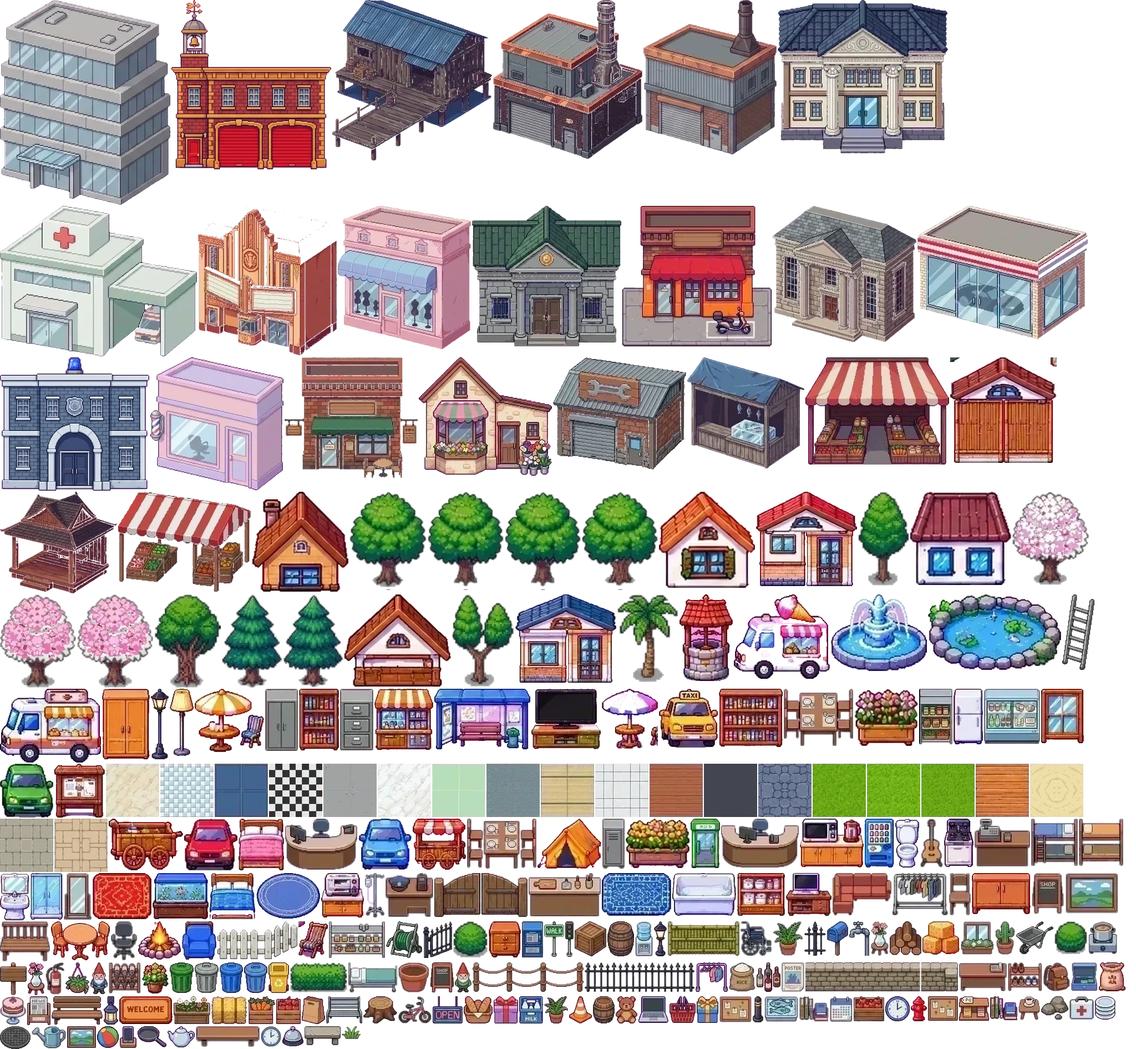
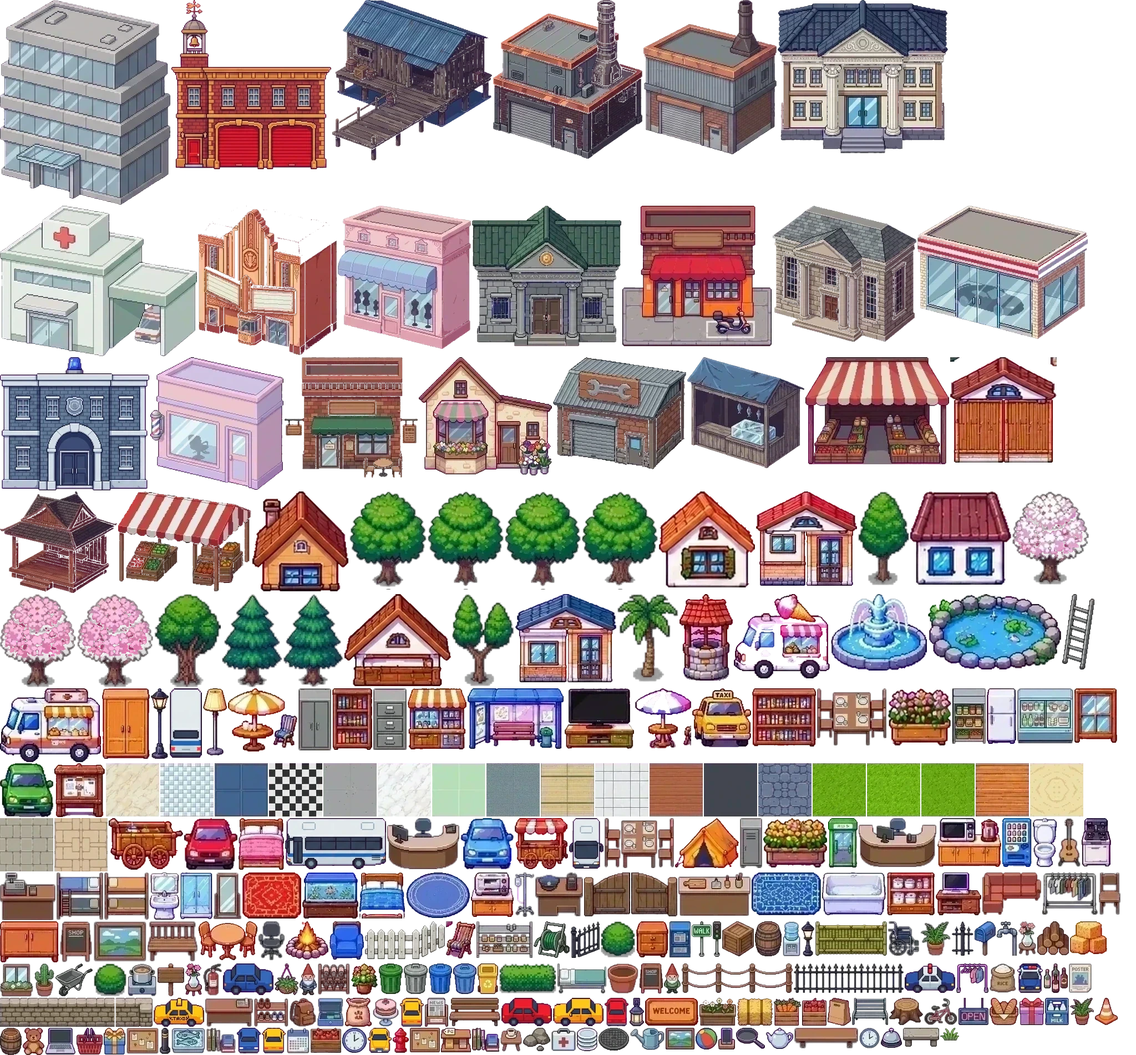
Real traffic from the vehicles sheet: cars, taxis, a police car and buses drive on the left along routes around town, turn at corners with side, front and rear views, keep their distance, take turns at junctions (no overlaps in a 10-minute simulation) and stop for people; parked car props removed; t
Claude-Session: https://claude.ai/code/session_011vTRLcvJmqJKhBboYRSi88

diff --git a/public/game.js b/public/game.js
@@ -696,7 +696,7 @@ function draw(t) {
   for (const f of roomFurniture) if (vis(f[1], f[2], 4)) ents.push([/rug|welcome|f_mat/.test(f[0]) ? -1e9 : f[2], 3, f]);   // rugs and mats lie on the floor: always under people
   for (const p of P.values()) if (vis(p.rx, p.ry, 3)) ents.push([p.ry + .3, 4, p]);
   for (const n of STAFF) if (vis(n.rx, n.ry, 3)) ents.push([n.ry + .3, 4, n]);
-  if (A?.id === 'town') { stepTraffic(); for (const c of traffic) if (c.y > c.y0 + .3 && c.y < c.y1 - .3 && vis(c.x, c.y, 3)) ents.push([c.y, 5, c]); }   // cars only show on their own stretch of road
+  if (A?.id === 'town') { stepTraffic(); for (const c of traffic) if (vis(c.x, c.y, 4)) ents.push([c.y + halfY(c), 5, c]); }
   if (myRoom?.rk === 'hospital') (wd?.beds || []).forEach((b, i) => { if (b && b[5]) { const s = STN('bed' + i); ents.push([s.y + .3, 4, npcPatient(b, s)]); } });
   ents.sort((a, b) => a[0] - b[0]);
   if (!myRoom) drawCastShadows(ents, X, Y, night);
@@ -705,7 +705,7 @@ function draw(t) {
     else if (k === 1) { if (!e.open || isOpen(e.open)) spr(e.s, e.x, e.y - (e.z || 0), X, Y); }   // z: hung on a wall; open: only while that shop is open
     else if (k === 2) spr(e[2], e[0] + .5, e[1] + 1.05, X, Y);
     else if (k === 3) spr(e[0], e[1], e[2], X, Y);
-    else if (k === 5) spr(e.s, e.x, e.y + .35, X, Y, .78);
+    else if (k === 5) drawCar(e, X, Y);
     else drawPlayer(e, X, Y, t);
   }
   for (const b of G.map.buildings) if (vis(b.x + b.w / 2, b.y + b.h)) drawBuildingSign(b, X, Y);
@@ -1849,7 +1849,7 @@ function drawCastShadows(ents, X, Y, night) {
     if (kind === 0) one(e.sprite, e.x + e.w / 2, e.y + e.h + .02);
     else if (kind === 1 && !e.z) one(e.s, e.x, e.y);
     else if (kind === 2) one(e[2], e[0] + .5, e[1] + 1.05);
-    else if (kind === 5) one(e.s, e.x, e.y + .35, .78);
+    else if (kind === 5) { const [n, sc] = carSprite(e); one(n, e.x, e.y + halfY(e), sc); }
     else if (kind === 4 && e.rx != null) {          // people: a body-shaped blob
       g.setTransform(DPR, 0, -k * DPR, -d * DPR, ((e.rx) * TS + X) * DPR, ((e.ry + .32) * TS + Y) * DPR);
       g.fillStyle = '#000'; g.beginPath(); g.ellipse(0, -TS * .55, TS * .2, TS * .55, 0, 0, 7); g.fill();
@@ -1879,22 +1879,98 @@ function drawSunlight(t, night) {
   v.addColorStop(0, 'rgba(20,10,0,0)'); v.addColorStop(1, `rgba(20,10,0,${.32 * day + .1})`);
   ctx.fillStyle = v; ctx.fillRect(0, 0, VW, VH);
 }
-// ---- ambient traffic: cosmetic cars on the vertical roads (left lane drives down toward you, right lane up); they wait for people in the way
-const LANES = [[49.5, 4, 23.5], [49.5, 40, 75.5], [2.5, 14, 31.5], [94.5, 16, 77.5]];
+// ---- traffic: cars and buses drive on the left (Thai roads) along fixed routes, turn at corners, keep their distance,
+// take turns at crossings and stop for people. Cosmetic only: they never block anyone.
+const ROUTES = [
+  [[2.5, 32.5], [2.5, 14.5], [95.5, 14.5], [95.5, 77.5], [49.5, 77.5], [49.5, 40.6], [50.5, 40.6], [50.5, 76.5], [94.5, 76.5], [94.5, 15.5], [3.5, 15.5], [3.5, 31.5], [41.4, 31.5], [41.4, 32.5]],
+  [[92.5, 32.5], [58.6, 32.5], [58.6, 31.5], [92.5, 31.5]],
+  [[4.6, 46.5], [47.6, 46.5], [47.6, 47.5], [4.6, 47.5]],
+];
+// sprites per kind: side view (faces left, mirrored for right), front (coming toward you), back (driving away)
+const VEH = {
+  red:    { side: 'v_red_side', front: ['car_red', .45], back: 'v_red_back', len: 1.9, v: 3.2 },
+  blue:   { side: 'v_blue_side', front: ['car_blue', .45], back: 'v_blue_back', len: 1.9, v: 3.0 },
+  taxi:   { side: 'v_taxi_side', front: ['taxi', .41], back: 'v_taxi_back', len: 1.9, v: 3.4 },
+  yellow: { side: 'v_yellow_side', front: 'v_yellow_front', back: 'v_yellow_back', len: 1.9, v: 3.1 },
+  police: { side: 'v_police_side', front: 'v_police_front', back: 'v_police_front', len: 1.9, v: 3.3 },
+  bus:    { side: 'v_bus_side', front: 'v_bus_front', back: 'v_bus_back', len: 3.8, v: 2.4, deep: 1.7 },
+};
+const FLEET = [['bus', 'red', 'taxi', 'blue', 'yellow', 'police', 'red', 'taxi', 'bus', 'blue', 'yellow', 'taxi', 'red', 'blue'], ['taxi', 'red', 'blue'], ['yellow', 'red', 'blue']];
 let traffic = [], trafT = 0;
+const routeLen = r => r.reduce((t, a, i) => { const b = r[(i + 1) % r.length]; return t + Math.hypot(b[0] - a[0], b[1] - a[1]); }, 0);
+function routePos(r, d) {                     // point and heading at distance d along a closed route
+  const L = routeLen(r); d = ((d % L) + L) % L;
+  for (let i = 0; i < r.length; i++) {
+    const a = r[i], b = r[(i + 1) % r.length], l = Math.hypot(b[0] - a[0], b[1] - a[1]);
+    if (d <= l) return { x: a[0] + (b[0] - a[0]) * d / l, y: a[1] + (b[1] - a[1]) * d / l, dx: Math.sign(b[0] - a[0]), dy: Math.sign(b[1] - a[1]) };
+    d -= l;
+  }
+  return { x: r[0][0], y: r[0][1], dx: 1, dy: 0 };
+}
+// half of the car's size along each axis, from its heading
+// corners and U-turns: only one car at a time inside a small zone around each turning point
+const CORNERS = ROUTES.map(r => { let d = 0; return r.map((a, i) => { const p = r[(i + r.length - 1) % r.length]; d += i ? Math.hypot(a[0] - p[0], a[1] - p[1]) : 0; return { x: a[0], y: a[1], d }; }); });
+const ZONE = 1.9;
+// corners close to each other (the two lanes turning at the same junction) share one zone
+const CLUSTER = (() => { const pts = CORNERS.flat(), id = new Map(); let n = 0;
+  for (const p of pts) { const near = pts.find(q => id.has(q.x + ',' + q.y) && Math.hypot(q.x - p.x, q.y - p.y) < 2.6); id.set(p.x + ',' + p.y, near ? id.get(near.x + ',' + near.y) : n++); }
+  const groups = {}; for (const [k, v] of id) (groups[v] = groups[v] || []).push(pts.find(q => q.x + ',' + q.y === k));
+  return Object.fromEntries([...id].map(([k, v]) => [k, groups[v]])); })();   // one shared array per cluster
+// o is behind me in my own lane (following me): it does not stop me from turning
+const behind = (c, o) => o.r === c.r && ((c.d - o.d) % routeLen(c.r) + routeLen(c.r)) % routeLen(c.r) < 6;
+function cornerAhead(c) {                    // the next turning point on my route, and how far away it is
+  const L = routeLen(c.r), d = ((c.d % L) + L) % L; let best = null;
+  for (const k of CORNERS[ROUTES.indexOf(c.r)]) { const ahead = ((k.d - d) % L + L) % L; if (!best || ahead < best.ahead) best = { ...k, ahead }; }
+  return best;
+}
+const halfX = c => c.dx ? VEH[c.k].len / 2 : .45, halfY = c => c.dx ? .4 : (VEH[c.k].deep || 1.1) / 2;
 function stepTraffic() {
   const t = performance.now(), dt = Math.min(.1, (t - (trafT || t)) / 1000); trafT = t;
   if (!traffic.length) {
-    const kinds = ['car_red', 'car_blue', 'taxi', 'car_green'];
-    LANES.forEach(([x, y0, y1], li) => { for (const dir of [1, -1]) { const n = Math.max(1, Math.round((y1 - y0) / 14)); for (let i = 0; i < n; i++) traffic.push({ s: kinds[(li * 3 + i + (dir > 0 ? 0 : 2)) % 4], x: x + (dir > 0 ? -.5 : .5), y0, y1, dir, y: y0 + (y1 - y0) * ((i + (dir > 0 ? 0 : .5)) / n), v: 2.6 + (li % 3) * .3 }); } });
+    let id = 0;
+    ROUTES.forEach((r, ri) => { const L = routeLen(r), n = FLEET[ri].length; FLEET[ri].forEach((k, i) => { const c = { id: id++, k, r, d: L * i / n, v: 0 }; Object.assign(c, routePos(r, c.d)); traffic.push(c); }); });
   }
+  const people = [...P.values()];
   for (const c of traffic) {
-    const ahead = c.y + c.dir * 1.3;
-    const blocked = [...P.values()].some(p => Math.abs(p.rx - c.x) < .8 && Math.abs(p.ry - ahead) < 1) || traffic.some(o => o !== c && o.x === c.x && (o.y - c.y) * c.dir > 0 && Math.abs(o.y - c.y) < 2.2);
-    if (!blocked) c.y += c.dir * c.v * dt;
-    if (c.dir > 0 && c.y > c.y1) c.y = c.y0;
-    if (c.dir < 0 && c.y < c.y0) c.y = c.y1;
+    const V = VEH[c.k], look = .55 + c.v * .35;
+    // blocked if any car's box overlaps the stretch of road just ahead of mine (same lane, or crossing my path)
+    const ax = c.x + c.dx * (halfX(c) + look / 2), ay = c.y + c.dy * (halfY(c) + look / 2);
+    const bx = c.dx ? look / 2 : .42, by = c.dy ? look / 2 : .42;
+    let blocker = null;
+    for (const o of traffic) {
+      if (o === c) continue;
+      if (Math.abs(o.x - ax) < bx + halfX(o) && Math.abs(o.y - ay) < by + halfY(o)) { blocker = o; break; }
+    }
+    // wait before a corner while another car is turning there (or still inside the turn)
+    if (!blocker) {
+      const k = cornerAhead(c), near = k.ahead < halfX(c) + ZONE + .3;
+      if (near && c.holds !== k.x + ',' + k.y) {
+        const zone = CLUSTER[k.x + ',' + k.y];
+        const busy = traffic.find(o => o !== c && !behind(c, o) && (o.holds && CLUSTER[o.holds] === zone || o.waitZone !== zone && zone.some(q => Math.hypot(o.x - q.x, o.y - q.y) < ZONE + Math.max(halfX(o), halfY(o)))));
+        if (busy) { blocker = busy; c.waitZone = zone; } else { c.holds = k.x + ',' + k.y; c.waitZone = null; }
+      }
+      if (!near && c.holds && k.ahead > halfX(c) + ZONE + 1) c.holds = null;
+    }
+    if (!blocker) for (const p of people) if (Math.abs(p.rx - ax) < bx + .3 && Math.abs(p.ry - ay) < by + .3) { blocker = p; break; }
+    // two cars waiting on each other at a crossing: the lower id goes first
+    c.blockedBy = blocker; c.wait = blocker ? (c.wait || 0) + dt : 0;
+    const want = blocker ? 0 : V.v * (c.dx && c.dy ? .5 : 1);
+    c.v += Math.max(-9 * dt, Math.min(2.4 * dt, want - c.v));      // gentle speed-up, firm braking
+    if (c.v > 0) { c.d += c.v * dt; Object.assign(c, routePos(c.r, c.d)); }
   }
+}
+function carSprite(c) {
+  const V = VEH[c.k];
+  if (c.dx) return [V.side, 1, c.dx > 0];
+  const f = c.dy > 0 ? V.front : V.back;
+  return Array.isArray(f) ? [f[0], f[1], false] : [f, 1, false];
+}
+function drawCar(c, X, Y) {
+  const [name, sc, flip] = carSprite(c), s = atlas && atlasImg && atlas.sprites[name]; if (!s) return;
+  const w = s[2] / atlas.tile * TS * sc, h = s[3] / atlas.tile * TS * sc;
+  const cx = Math.round(c.x * TS + X), by = Math.round((c.y + halfY(c) * (c.dx ? 1.1 : .9)) * TS + Y);
+  ctx.save(); ctx.translate(cx, by); if (flip) ctx.scale(-1, 1);
+  ctx.drawImage(atlasImg, s[0], s[1], s[2], s[3], Math.round(-w / 2), Math.round(-h), Math.round(w), Math.round(h)); ctx.restore();
 }
 function drawLights(X, Y, dark) {
   ctx.globalCompositeOperation = 'lighter';
@@ -1904,7 +1980,7 @@ function drawLights(X, Y, dark) {
   // homes with someone living in them have lit windows
   for (const b of G.map.buildings) if (b.house !== undefined && wd?.houses?.[b.house]?.[0]) glow((b.x + b.w / 2) * TS + X, (b.y + b.h - 1.2) * TS + Y, TS * 1.6, `rgba(255,210,130,${dark * .6})`);
   // cars: headlights ahead, red tail lights behind
-  if (drawArea?.id === 'town') for (const c of traffic) if (c.y > c.y0 + .3 && c.y < c.y1 - .3) { const px = c.x * TS + X, py = c.y * TS + Y; glow(px, py + c.dir * TS * 1.3, TS * 1.6, c.dir > 0 ? `rgba(255,245,200,${dark * .9})` : `rgba(255,60,40,${dark * .6})`); }
+  if (drawArea?.id === 'town') for (const c of traffic) { const px = c.x * TS + X, py = c.y * TS + Y, fx = c.dx * (halfX(c) + .9), fy = c.dy * (halfY(c) + .9); glow(px + fx * TS, py + fy * TS, TS * 1.5, `rgba(255,245,200,${dark * .85})`); glow(px - c.dx * halfX(c) * TS, py - c.dy * halfY(c) * TS, TS * .7, `rgba(255,50,30,${dark * .55})`); }
   for (const p of G.props) if (/^lamp/.test(p.s)) {
     const px = p.x * TS + X, py = (p.y - 1.6) * TS + Y; if (px < -200 || py < -200 || px > VW + 200 || py > VH + 200) continue;
     const g = ctx.createRadialGradient(px, py, 0, px, py, TS * 2.4);
@@ -2292,6 +2368,6 @@ function renderTrade() {
   $('#tCancel').onclick = () => send({ t: 'trade_cancel' });
 }
 setInterval(() => { if (trade) renderTrade(); }, 800);
-window.__lt = { P, camera, walkTo, get wd() { return wd; }, get me() { return me; }, get myId() { return myId; }, get running() { return running; }, get TS() { return TS; }, openPanel };   // read-only hooks for automated UI tests
+window.__lt = { get traffic() { return traffic; }, P, camera, walkTo, get wd() { return wd; }, get me() { return me; }, get myId() { return myId; }, get running() { return running; }, get TS() { return TS; }, openPanel };   // read-only hooks for automated UI tests
 $('#tchatForm').onsubmit = e => { e.preventDefault(); const i = $('#tchatIn'); if (i.value.trim()) send({ t: 'trade_chat', text: i.value }); i.value = ''; };
 })();

diff --git a/server/data.js b/server/data.js
@@ -144,7 +144,7 @@ function pathDown(b, toY) { const cx = Math.floor(b.x + b.w / 2); for (let y = b
   prop('busstop', 38.5, 35.2); prop('vending', 41.2, 29.9);
   for (const [x, y] of [[48.4, 13.95], [51.6, 13.95], [51.6, 16.95], [96.4, 30.95], [92.6, 33.95], [51.6, 75.0], [48.6, 78.95]]) prop('trafficlight', x, y); prop('postbox', 10, 33.95); prop('hydrant', 65.5, 33.95);
   prop('phonebooth', 57.3, 23.9); prop('bin_blue', 33.8, 29.95); prop('bin_green', 75, 33.95);
-  prop('car_red', 16.5, 34.9); prop('car_blue', 70.5, 34.95); prop('taxi', 92.5, 29.95);
+  // (no parked cars: real traffic drives the roads now)
   // parks, the lake and the beach
   prop('flowerbed', 61.5, 41.2, false); prop('flowerbed2', 70.5, 45.2, false); prop('flowerbox', 59.6, 47.5); prop('bench2', 80.5, 41.2, false); prop('flowerbed', 84.5, 47.2, false);
   prop('b_pavilion', 66, 44); prop('bench', 72, 47, false); prop('bench2', 86, 59.3, false); prop('pond', 64, 60.2);

diff --git a/tools/cut_vehicles.py b/tools/cut_vehicles.py
@@ -1,0 +1,76 @@
+"""Cut the vehicles from tools/sheets/vehicles.jpg (magenta background with thin grid lines drawn over it) into the atlas.
+
+    python3 tools/cut_vehicles.py
+
+Grid lines are found as columns/rows full of thin dark pixels with magenta on both sides, then painted over by blending
+the pixels on either side (so a line crossing a vehicle disappears too). Side views face left; the game mirrors them.
+"""
+import json, os
+import numpy as np
+from PIL import Image
+from scipy import ndimage
+
+ROOT = os.path.join(os.path.dirname(__file__), '..')
+IMG = os.path.join(ROOT, 'public', 'assets', 'atlas.webp'); JS = os.path.join(ROOT, 'public', 'assets', 'atlas.json')
+SHEET = os.path.join(ROOT, 'tools', 'sheets', 'vehicles.jpg')
+# name: (centre x, centre y) on the 2000px sheet, length in game tiles (side views) or width in tiles (front/back views)
+PICK = {
+  'v_amb_side': (250, 140, 2.3), 'v_amb_back': (600, 140, .95),
+  'v_fire_side': (250, 395, 2.5), 'v_fire_back': (600, 390, .95),
+  'v_police_side': (250, 640, 1.9), 'v_police_front': (600, 640, .95),
+  'v_taxi_side': (222, 875, 1.9), 'v_taxi_back': (600, 870, .9),
+  'v_red_side': (202, 1118, 1.9), 'v_red_back': (600, 1128, .9),
+  'v_blue_side': (160, 1355, 1.9), 'v_blue_back': (383, 1355, .9),
+  'v_yellow_front': (145, 1550, .9), 'v_yellow_back': (383, 1548, .9), 'v_yellow_side': (865, 1545, 1.9),
+  'v_bus_front': (140, 1795, 1.3), 'v_bus_back': (383, 1795, 1.2), 'v_bus_side': (1015, 1800, 3.8),
+}
+
+def groups(idx):
+    out, cur = [], []
+    for i in idx:
+        if cur and i != cur[-1] + 1: out.append(cur); cur = []
+        cur.append(i)
+    if cur: out.append(cur)
+    return out
+
+def main():
+    a = np.asarray(Image.open(SHEET).convert('RGB')).astype(float); H, W, _ = a.shape
+    r, g, b = a[..., 0], a[..., 1], a[..., 2]
+    mag = (g < np.minimum(r, b) * .6) & (np.abs(r - b) < 90) & (np.minimum(r, b) > 110); dark = (r + g + b) < 260
+    def bgline(axis):
+        L = np.zeros_like(mag)
+        for k in range(1, 6): L |= dark & np.roll(mag, k, axis) & np.roll(mag, -k, axis)
+        return L
+    vb, hb = bgline(1), bgline(0)
+    for grp in groups([x for x in range(W) if vb[:, x].sum() > 150]):
+        x0, x1 = max(0, grp[0] - 2), min(W - 1, grp[-1] + 2); n = x1 - x0
+        for x in range(x0 + 1, x1): t = (x - x0) / n; a[:, x] = a[:, x0] * (1 - t) + a[:, x1] * t
+    for grp in groups([y for y in range(H) if hb[y, :].sum() > 150]):
+        y0, y1 = max(0, grp[0] - 2), min(H - 1, grp[-1] + 2); n = y1 - y0
+        for y in range(y0 + 1, y1): t = (y - y0) / n; a[y] = a[y0] * (1 - t) + a[y1] * t
+    r, g, b = a[..., 0], a[..., 1], a[..., 2]
+    bg = (g < np.minimum(r, b) * .62) & (np.abs(r - b) < 100) & (np.minimum(r, b) > 100)
+    rgba = np.dstack([a.clip(0, 255), np.where(bg, 0, 255)]).astype(np.uint8)
+    lab, n = ndimage.label(~bg)
+    sizes = ndimage.sum(np.ones_like(lab), lab, range(1, n + 1)); objs = ndimage.find_objects(lab)
+    big = [i for i in range(n) if sizes[i] > 1500]
+    data = json.load(open(JS)); atlas = Image.open(IMG).convert('RGBA'); S = data['sprites']
+    s = W / 2000; pieces = []
+    for name, (cx, cy, tiles) in PICK.items():
+        cx, cy = cx * s, cy * s
+        i = min(big, key=lambda i: (((objs[i][1].start + objs[i][1].stop) / 2 - cx) ** 2 + ((objs[i][0].start + objs[i][0].stop) / 2 - cy) ** 2))
+        sl = objs[i]; piece = rgba[sl].copy(); piece[..., 3] = np.where(lab[sl] == i + 1, 255, 0)
+        im = Image.fromarray(piece); w = round(tiles * 48); im = im.resize((w, max(1, round(im.height * w / im.width))), Image.LANCZOS)
+        pieces.append((name, im))
+    x, y, rowh = 0, data['size'][1] + 2, 0; placed = []
+    for name, im in pieces:
+        if x + im.width > atlas.width: x, y, rowh = 0, y + rowh + 2, 0
+        placed.append((name, x, y, im)); x += im.width + 2; rowh = max(rowh, im.height)
+    out = Image.new('RGBA', (atlas.width, y + rowh)); out.paste(atlas, (0, 0))
+    for name, px, py, im in placed: out.paste(im, (px, py)); S[name] = [px, py, im.width, im.height]
+    data['size'] = [atlas.width, out.height]
+    out.save(IMG, 'WEBP', quality=92, method=6); json.dump(data, open(JS, 'w'), separators=(',', ':'))
+    print('added', len(placed))
+
+if __name__ == '__main__':
+    main()
